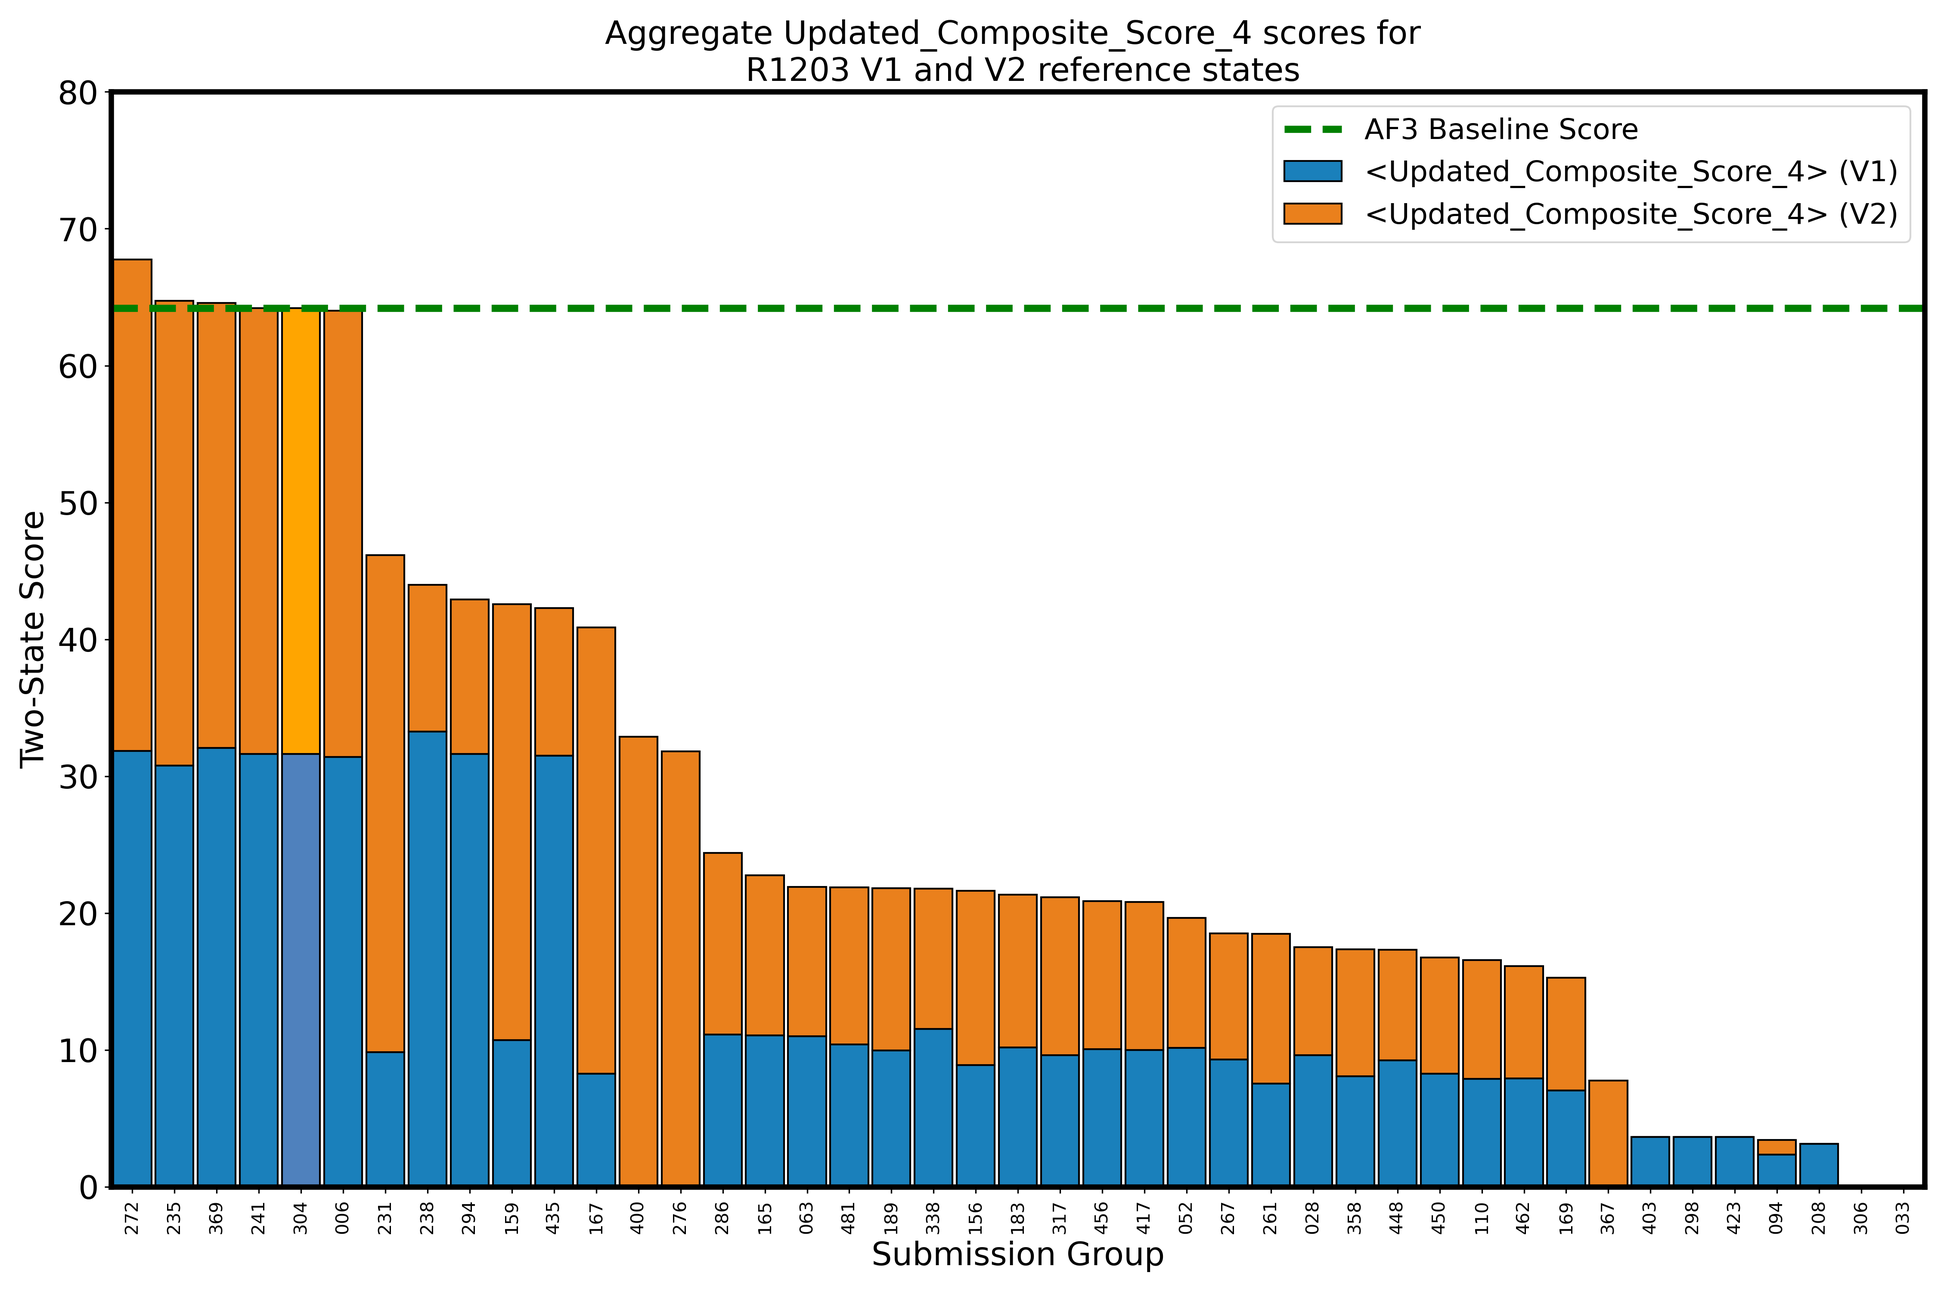
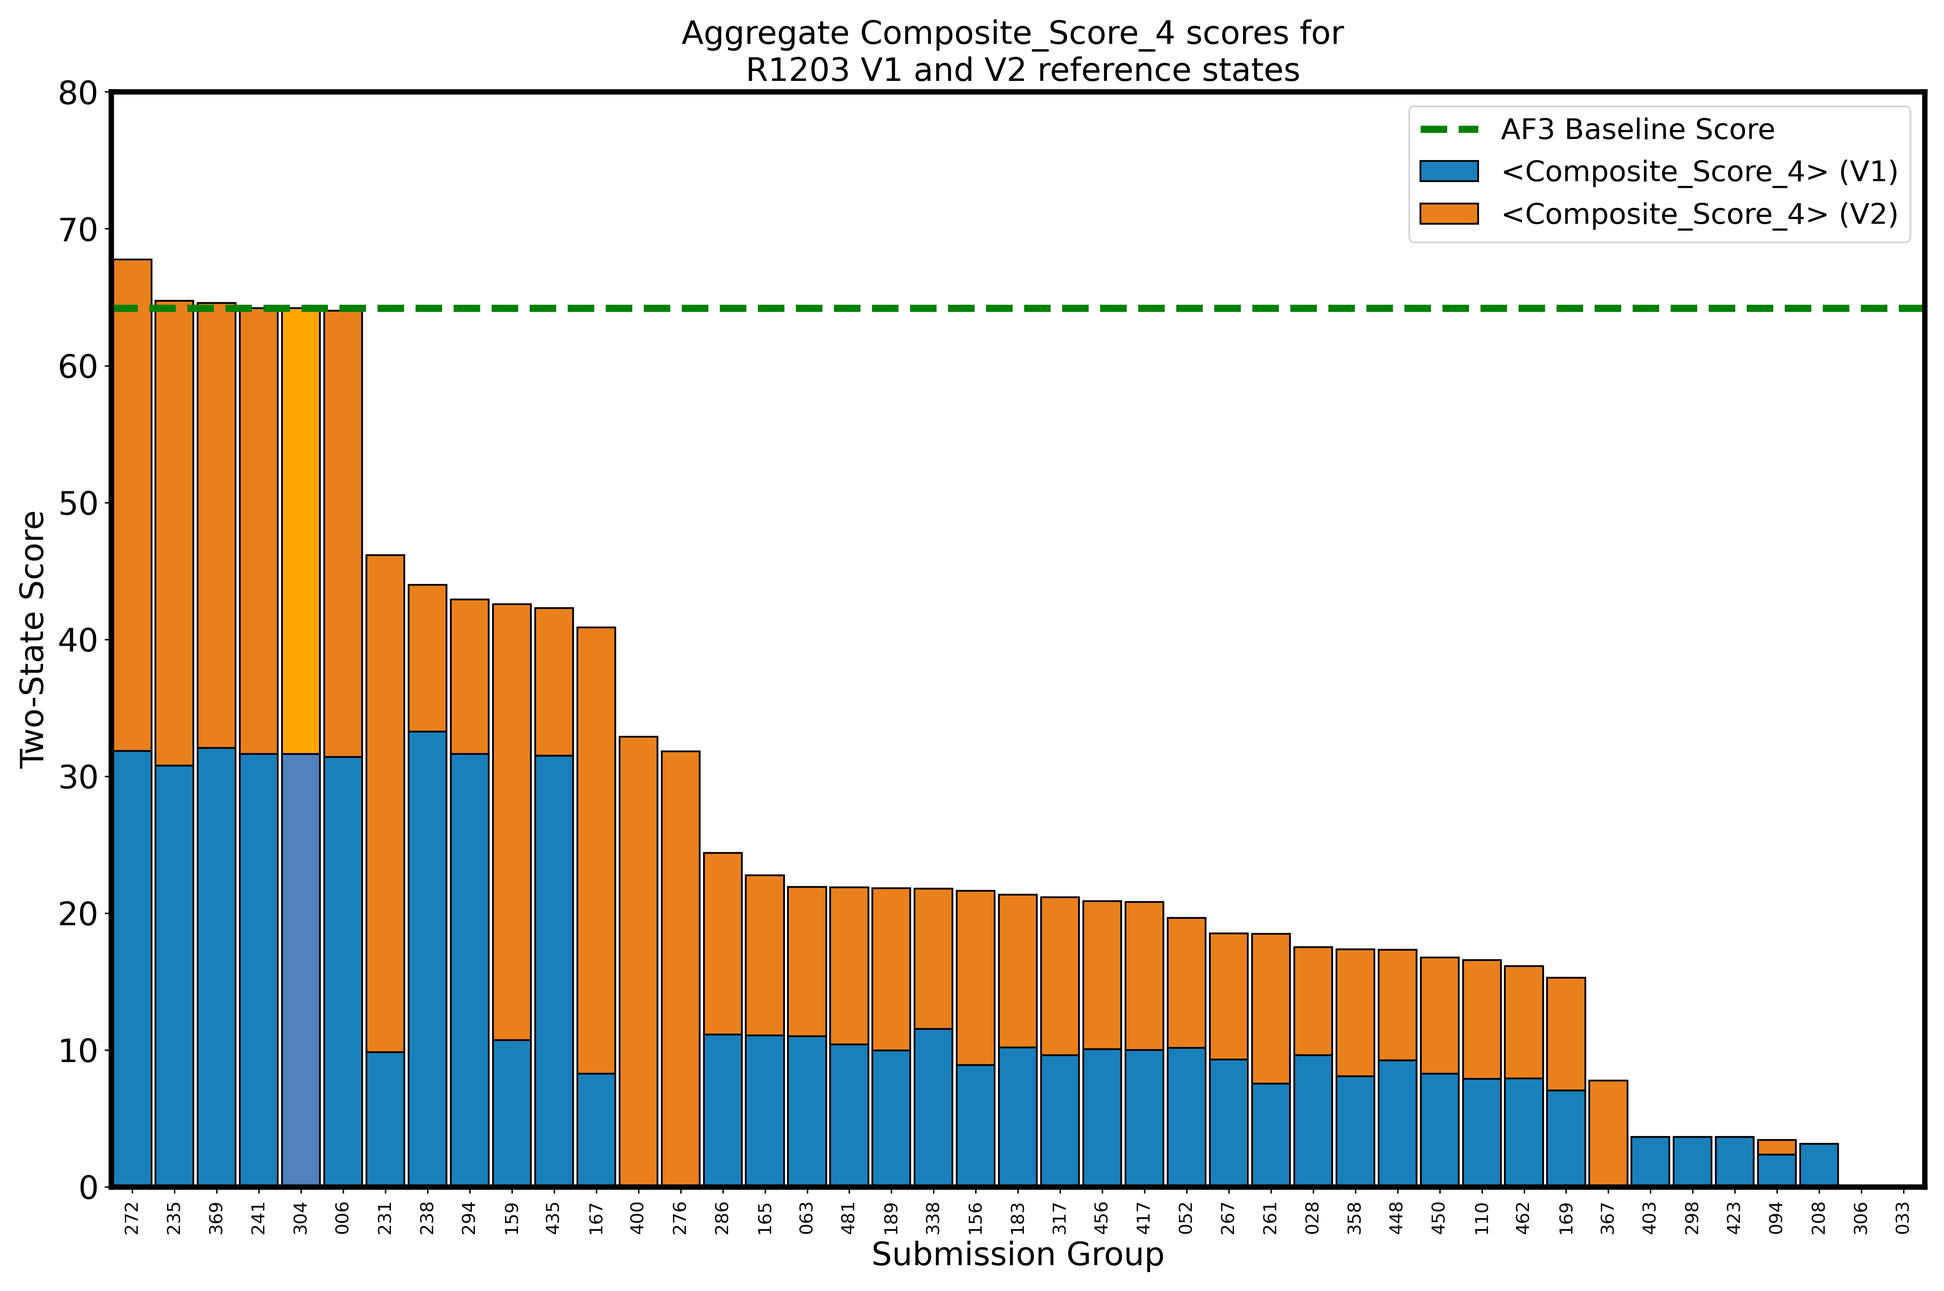
created simplified bar plots for inclusion in the manuscript.

Changed region(s): [[0.6558, 0.093, 0.9056, 0.186], [0.3123, 0.0, 0.7183, 0.031]]

diff --git a/process_two_state_score_simple_bar_plots.py b/process_two_state_score_simple_bar_plots.py
@@ -228,229 +228,6 @@ def get_best_fit(ID, v1_df, v2_df, score):
     results_df = pd.DataFrame(results)
     return results_df
 
-def create_scatter(
-    x,
-    y,
-    group_labels,
-    xlabel,
-    ylabel,
-    title,
-    legend_label='Submission Groups',
-    main_xlim=None,
-    main_ylim=None,
-    inset=False,
-    inset_position=[0.5, 0.05, 0.475, 0.475],
-    inset_xlim=None,
-    inset_ylim=None,
-    inset_xticks=None,
-    inset_yticks=None,
-    highlight_inset_rect=False,
-    rect_xy=None,
-    rect_width=None,
-    rect_height=None,
-    adjust_texts=True,
-    save_path=None,
-    dpi=300,
-    legend_position='upper right',
-    score = None,
-    xlim=None,           # New optional parameter for x-axis range
-    ylim=None,           # New optional parameter for y-axis range
-    xticks=None,         # New optional parameter for x-axis ticks
-    yticks=None,         # New optional parameter for y-axis ticks
-    text_fontsize=8,     # New optional parameter for text fontsize
-    AF3_baseline=False   # New optional parameter for AF3 baseline highlighting
-):
-    """
-    Create a scatterplot with optional inset.
-    Parameters:
-        x, y: Data for scatterplot
-        group_labels: Labels for each point
-        xlabel, ylabel, title: Axis and plot labels
-        legend_label: Label for legend
-        main_xlim, main_ylim: Tuple for main plot axis limits
-        inset: Whether to create an inset
-        inset_position: [left, bottom, width, height] for inset axes
-        inset_xlim, inset_ylim: Tuple for inset axis limits
-        inset_xticks, inset_yticks: Ticks for inset axes
-        highlight_inset_rect: Whether to draw a rectangle on main plot
-        rect_xy: (x, y) for rectangle lower left
-        rect_width, rect_height: Rectangle width and height
-        adjust_texts: Whether to adjust text to avoid overlap
-        save_path: If provided, save the figure to this path
-        dpi: Dots per inch for saving
-        legend_position: Position for the legend
-        xlim, ylim: Explicit x/y axis range for main plot (overrides main_xlim/main_ylim if provided)
-        xticks, yticks: Explicit x/y axis tick values for main plot
-        text_fontsize: Font size for group label texts (default 8)
-    Returns:
-        fig, ax_main, ax_inset (if inset=True)
-    """
-
-    fig, ax_main = plt.subplots(figsize=(8, 8))
-    max_val = max(max(x), max(y))
-    max_val_for_plotting = max_val
-    if xlim is not None and ylim is not None:
-        max_val_for_plotting = max(max_val, max(xlim), max(ylim))
-    max_val = max(max_val, max_val_for_plotting)
-
-    ax_main.plot([0, max_val], [0, max_val], 'r-', label='y=x')
-    scatter = ax_main.scatter(x, y, c='blue', label=legend_label)
-
-    # --- AF3 Baseline Highlighting ---
-    if AF3_baseline:
-        for i, (xv, yv, txt) in enumerate(zip(x, y, group_labels)):
-            group_num = str(int(''.join(filter(str.isdigit, str(txt))))).zfill(3)
-            if group_num == '304':
-                ax_main.axhline(yv, color='gray', linestyle='--', linewidth=2)
-                ax_main.axvline(xv, color='gray', linestyle='--', linewidth=2)
-                # Shade the area y > y_304 and x > x_304
-                x_min, x_max = ax_main.get_xlim()
-                y_min, y_max = ax_main.get_ylim()
-                ax_main.fill_betweenx([yv, y_max], xv, x_max, color='yellow', alpha=0.2, zorder=0)
-    # --- End AF3 Baseline Highlighting ---
-
-    # Set axis bounds with padding for main plot if not provided
-    if xlim is not None:
-        ax_main.set_xlim(*xlim)
-    elif main_xlim is None:
-        x_min, x_max = min(x), max(x)
-        padding = 0.05
-        x_range = x_max - x_min
-        main_xlim = (x_min - x_range * padding, x_max + x_range * padding)
-        ax_main.set_xlim(*main_xlim)
-    else:
-        ax_main.set_xlim(*main_xlim)
-
-    if ylim is not None:
-        ax_main.set_ylim(*ylim)
-    elif main_ylim is None:
-        y_min, y_max = min(y), max(y)
-        padding = 0.05
-        y_range = y_max - y_min
-        main_ylim = (y_min - y_range * padding, y_max + y_range * padding)
-        ax_main.set_ylim(*main_ylim)
-    else:
-        ax_main.set_ylim(*main_ylim)
-
-    if xticks is not None:
-        ax_main.set_xticks(xticks)
-    if yticks is not None:
-        ax_main.set_yticks(yticks)
-
-    ax_inset = None
-    if inset:
-        ax_inset = ax_main.inset_axes(inset_position)
-        ax_inset.plot([0, max_val], [0, max_val], 'r-')
-        ax_inset.scatter(x, y, c='blue')
-        if inset_xlim:
-            ax_inset.set_xlim(*inset_xlim)
-        if inset_ylim:
-            ax_inset.set_ylim(*inset_ylim)
-        if inset_xticks:
-            ax_inset.set_xticks(inset_xticks)
-        if inset_yticks:
-            ax_inset.set_yticks(inset_yticks)
-        ax_inset.tick_params(labelsize=8)
-        ax_inset.grid(True, linestyle='--', alpha=0.7)
-        # Add rectangle in main plot to show zoomed region
-        if highlight_inset_rect and rect_xy and rect_width and rect_height:
-            rect = plt.Rectangle(rect_xy, rect_width, rect_height, fill=False, color='red', linestyle='--')
-            ax_main.add_patch(rect)
-        # --- AF3 Baseline Highlighting ---
-        if AF3_baseline:
-            for i, (xv, yv, txt) in enumerate(zip(x, y, group_labels)):
-                group_num = str(int(''.join(filter(str.isdigit, str(txt))))).zfill(3)
-                if group_num == '304':
-                    ax_inset.axhline(yv, color='gray', linestyle='--', linewidth=2)
-                    ax_inset.axvline(xv, color='gray', linestyle='--', linewidth=2)
-                    # Shade the area y > y_304 and x > x_304
-                    x_min, x_max = ax_inset.get_xlim()
-                    y_min, y_max = ax_inset.get_ylim()
-                    ax_inset.fill_betweenx([yv, y_max], xv, x_max, color='yellow', alpha=0.2, zorder=0)
-        # --- End AF3 Baseline Highlighting ---
-
-    # Add labels and adjust text for main plot and inset
-    texts_main = []
-    texts_inset = []
-    
-    # Calculate combined scores (x + y) for each group
-    combined_scores = [xv + yv for xv, yv in zip(x, y)]
-    
-    # Create a list of tuples with (combined_score, index, group_label)
-    score_index_pairs = [(score, i, str(group_labels[i])) for i, score in enumerate(combined_scores)]
-    
-    # Sort by combined score in descending order and get top 5
-    score_index_pairs.sort(key=lambda x: x[0], reverse=True)
-    top_5_indices = [pair[1] for pair in score_index_pairs[:5]]
-    
-    # Find indices for TS462 and TS304
-    ts462_index = None
-    ts304_index = None
-    for i, (xv, yv, txt) in enumerate(zip(x, y, group_labels)):
-        txt = str(txt)
-        # Extract group number from group label (e.g., "TS462" -> "462")
-        group_number = ''.join(filter(str.isdigit, txt))
-        if group_number == '462':
-            ts462_index = i
-        if group_number == '304':
-            ts304_index = i
-    
-    # Create set of indices to label (top 5 + TS462 + TS304)
-    indices_to_label = set(top_5_indices)
-    # Add TS462 and TS304 if they exist and are not already in top 5
-    if ts462_index is not None and ts462_index not in indices_to_label:
-        indices_to_label.add(ts462_index)
-    if ts304_index is not None and ts304_index not in indices_to_label:
-        indices_to_label.add(ts304_index)
-    
-    # Add labels only for the selected groups
-    for i, (xv, yv, txt) in enumerate(zip(x, y, group_labels)):
-        if i in indices_to_label:
-            txt = str(txt)
-            if inset and inset_xlim and inset_ylim and (inset_xlim[0] <= xv <= inset_xlim[1] and inset_ylim[0] <= yv <= inset_ylim[1]):
-                texts_inset.append(ax_inset.text(xv, yv, txt.replace('TS', ''), fontsize=text_fontsize))
-            else:
-                texts_main.append(ax_main.text(xv, yv, txt.replace('TS', ''), fontsize=text_fontsize))
-    
-    if adjust_texts:
-        if texts_inset:
-            adjust_text(texts_inset, 
-                        ax=ax_inset, 
-                        arrowprops=dict(arrowstyle='->', color='red', lw=0.5),
-                        expand_points=(1.1, 1.1),
-                        force_points=(0.1, 0.1))
-        if texts_main:
-            adjust_text(texts_main, 
-                        ax=ax_main, 
-                        arrowprops=dict(arrowstyle='->', color='red', lw=0.5),
-                        expand_points=(2.0, 2.0),
-                        force_text=(0.5, 0.5),
-                        force_points=(0.5, 0.5),
-                        avoid_text=True,
-                        avoid_points=True,
-                        avoid_self=True)
-
-    ax_main.set_xlabel(xlabel, fontsize=20)
-    ax_main.set_ylabel(ylabel, fontsize=20)
-    ax_main.set_title(title, fontsize=20)
-    
-    # Automatic legend placement to find best location with maximum white space
-    legend = ax_main.legend(fontsize=16, bbox_to_anchor=(1.05, 1), loc='upper left')
-    
-    # Try to find the best position automatically
-    # This will place the legend in the location with the most white space
-    ax_main.legend(fontsize=16, loc='best')
-    
-    ax_main.tick_params(axis='both', labelsize=20)
-    plt.tight_layout()
-    if save_path:
-        fig.savefig(save_path, dpi=dpi, bbox_inches='tight')
-        plt.close(fig)
-    if inset:
-        return fig, ax_main, ax_inset
-    else:
-        return fig, ax_main
-
 def create_stacked_bar(combined_df, ID, score, horizontal=False, star=False, outfile_suffix = ""):
     import matplotlib.pyplot as plt
     num_groups = len(combined_df)
@@ -460,12 +237,12 @@ def create_stacked_bar(combined_df, ID, score, horizontal=False, star=False, out
         fig_size = (12, dynamic_size)
         bar_func, stack_param, line_func, line_param = plt.Axes.barh, 'left', plt.Axes.axvline, 'x'
         limit_set, label_prim, label_sec = plt.Axes.set_ylim, 'ylabel', 'xlabel'
-        legend_loc, tick_fs_prim, tick_fs_sec, rot_prim = 'lower right', 12, 18, 0
+        legend_loc, tick_fs_prim, tick_fs_sec, rot_prim = 'lower right', 18, 18, 0
     else:
         fig_size = (dynamic_size, 10)
         bar_func, stack_param, line_func, line_param = plt.Axes.bar, 'bottom', plt.Axes.axhline, 'y'
         limit_set, label_prim, label_sec = plt.Axes.set_xlim, 'xlabel', 'ylabel'
-        legend_loc, tick_fs_prim, tick_fs_sec, rot_prim = 'upper right', 10, 18, 90
+        legend_loc, tick_fs_prim, tick_fs_sec, rot_prim = 'upper right', 18, 18, 90
     fig, ax = plt.subplots(figsize=fig_size)
     group_labels_raw = combined_df['Group'].str.replace('TS', '')
     if horizontal:
@@ -483,25 +260,21 @@ def create_stacked_bar(combined_df, ID, score, horizontal=False, star=False, out
         group_labels = group_labels_raw
         check_labels = group_labels.values
         bar_size_param, bar_size = 'width', 0.9
-    v1_colors = ['#1A80BB'] * num_groups
-    v2_colors = ['#EA801C'] * num_groups
-    if '304' in check_labels:
-        idx_304 = list(check_labels).index('304')
-        if not star:
-            v1_colors[idx_304] = '#4F81BD'  # bluish
-            v2_colors[idx_304] = '#FFA500'  # orangish
+    v1_colors = ['tab:blue'] * num_groups
+    v2_colors = ['#FA7E0F'] * num_groups
+
     if num_groups > 100:
-        bar_kwargs_v1 = {bar_size_param: bar_size, 'label': f'<{score}> (V1)', 'color': v1_colors}
-        bar_kwargs_v2 = {bar_size_param: bar_size, 'label': f'<{score}> (V2)', 'color': v2_colors, stack_param: df_to_use[f'Best_v1_ref']}
+        bar_kwargs_v1 = {bar_size_param: bar_size, 'label': f'<{score.replace('Updated_','')}> (V1)', 'color': v1_colors}
+        bar_kwargs_v2 = {bar_size_param: bar_size, 'label': f'<{score.replace('Updated_','')}> (V2)', 'color': v2_colors, stack_param: df_to_use[f'Best_v1_ref']}
     else:
-        bar_kwargs_v1 = {bar_size_param: bar_size, 'label': f'<{score}> (V1)', 'edgecolor': 'black', 'linewidth': 1, 'color': v1_colors}
-        bar_kwargs_v2 = {bar_size_param: bar_size, 'label': f'<{score}> (V2)', 'edgecolor': 'black', 'linewidth': 1, 'color': v2_colors, stack_param: df_to_use[f'Best_v1_ref']}
+        bar_kwargs_v1 = {bar_size_param: bar_size, 'label': f'<{score.replace('Updated_','')}> (V1)','color': v1_colors}
+        bar_kwargs_v2 = {bar_size_param: bar_size, 'label': f'<{score.replace('Updated_','')}> (V2)', 'color': v2_colors, stack_param: df_to_use[f'Best_v1_ref']}
     bars_v1 = bar_func(ax, group_labels, df_to_use[f'Best_v1_ref'], **bar_kwargs_v1)
     bars_v2 = bar_func(ax, group_labels, df_to_use[f'Best_v2_ref'], **bar_kwargs_v2)
     if '304' in check_labels:
         idx_304 = list(check_labels).index('304')
         total_score = df_to_use[f'Best_v1_ref'].iloc[idx_304] + df_to_use[f'Best_v2_ref'].iloc[idx_304]
-        line_func(ax, **{line_param: total_score, 'color': 'green', 'linestyle': '--', 'linewidth': 4, 'label': 'AF3 Baseline Score'})
+        line_func(ax, **{line_param: total_score, 'color': 'grey', 'linestyle': '--', 'linewidth': 4, 'label': 'AF3 Baseline Score'})
         if star:
             # Add a gray star above (vertical) or to the right (horizontal) of the bar for group 304
             if horizontal:
@@ -513,7 +286,7 @@ def create_stacked_bar(combined_df, ID, score, horizontal=False, star=False, out
     limit_set(ax, -0.5, len(group_labels) - 0.5)
     getattr(ax, f'set_{label_prim}')('Submission Group', fontsize=18)
     getattr(ax, f'set_{label_sec}')('Two-State Score', fontsize=18)
-    ax.set_title(f'Aggregate {score} scores for \n {ID} V1 and V2 reference states', fontsize=18)
+    ax.set_title(f'Aggregate {score.replace('Updated_','')} scores for \n {ID} V1 and V2 reference states', fontsize=18)
     ax.legend(loc=legend_loc, fontsize=16)
     if horizontal:
         ax.set_yticks(range(len(group_labels)))
@@ -546,51 +319,22 @@ def assessment(ID, score):
 
     # Save the combined metric to a CSV file
     combined_df.to_csv(f'./OUTPUT/{ID}_{score}_two_state.csv', index=False)
-    
-    kwargs = {}
-    # Set text fontsize for specific IDs
-    if ID in ["M1239", "M1228"]:
-        kwargs['text_fontsize'] = 12
+  
 
-    # Default scatter plot parameters
-    kwargs.update({
-        'x': combined_df[f"Best_v1_ref"],
-        'y': combined_df[f"Best_v2_ref"],
-        'group_labels': combined_df['Group'],
-        'xlabel': f'{score} Score (V1)',
-        'ylabel': f'{score} Score (V2)',
-        'title': f'Scatter plot of {score} scores for \n {ID} V1 vs V2 reference states',
-        'save_path': f'./PLOTS/{ID}_{score}_scatter_plot_full_axis.png',
-        'score': score
-    })
-
-    if score == 'TMscore':
-        kwargs.update({
-            'xlim': (0.0, 1.0),
-            'ylim': (0.0, 1.0),
-            'xticks': [round(x, 2) for x in list(frange(0.0, 1.0+0.001, 0.1))],
-            'yticks': [round(y, 2) for y in list(frange(0.0, 1.0+0.001, 0.1))],
-        })
-    elif score == 'GDT_TS':
-        kwargs.update({
-            'xlim': (0.0, 100.0),
-            'ylim': (0.0, 100.0),
-            'xticks': [round(x, 2) for x in list(frange(0.0, 100.0+0.001, 10.0))],
-            'yticks': [round(y, 2) for y in list(frange(0.0, 100.0+0.001, 10.0))],
-        })
-   
-    # Call create_scatter once with all kwargs
-    result = create_scatter(**kwargs)
-    return
+    print("Creating stacked bar plots...")
+    create_stacked_bar(combined_df, ID, score, horizontal=False, star=False, outfile_suffix = "_vertical_simple")
+    create_stacked_bar(combined_df, ID, score, horizontal=True, star=False, outfile_suffix = "_horizontal_simple")
+    print(f"Done creating stacked bar plots for {ID} {score}")
 
 
 
-TARGET_SCORE_DICT = {"M1228": ["GDT_TS", "TMscore"], 
-                     "M1239": ["GDT_TS", "TMscore"], 
-                     "R1203": ["GDT_TS", "TMscore"], 
-                     "T1228": ["GDT_TS"], 
-                     "T1239": ["GDT_TS"]}
-
+TARGET_SCORE_DICT = {"M1228": ["BestDockQ", "GDT_TS", "GlobDockQ", "GlobalLDDT", "TMscore"], 
+                     "M1239": ["BestDockQ", "GDT_TS", "GlobDockQ", "GlobalLDDT", "TMscore"], 
+                     "R1203": ["GDT_TS", "GlobalLDDT", "Composite_Score_4", "TMscore"], 
+                     "T1214": ["GDT_TS", "GlobalLDDT"],
+                     "T1228": ["GDT_TS", "GlobalLDDT"], 
+                     "T1239": ["GDT_TS", "GlobalLDDT"], 
+                     "T1249": ["AvgDockQ", "GlobalLDDT"]}
 
 for ID, scores in TARGET_SCORE_DICT.items():
     for score in scores:

diff --git a/process_two_state_score.py b/process_two_state_score.py
@@ -456,11 +456,11 @@ def create_stacked_bar(combined_df, ID, score, horizontal=False, star=False, out
             v1_colors[idx_304] = '#4F81BD'  # bluish
             v2_colors[idx_304] = '#FFA500'  # orangish
     if num_groups > 100:
-        bar_kwargs_v1 = {bar_size_param: bar_size, 'label': f'<{score}> (V1)', 'color': v1_colors}
-        bar_kwargs_v2 = {bar_size_param: bar_size, 'label': f'<{score}> (V2)', 'color': v2_colors, stack_param: df_to_use[f'Best_v1_ref']}
+        bar_kwargs_v1 = {bar_size_param: bar_size, 'label': f'<{score.replace('Updated_','')}> (V1)', 'color': v1_colors}
+        bar_kwargs_v2 = {bar_size_param: bar_size, 'label': f'<{score.replace('Updated_','')}> (V2)', 'color': v2_colors, stack_param: df_to_use[f'Best_v1_ref']}
     else:
-        bar_kwargs_v1 = {bar_size_param: bar_size, 'label': f'<{score}> (V1)', 'edgecolor': 'black', 'linewidth': 1, 'color': v1_colors}
-        bar_kwargs_v2 = {bar_size_param: bar_size, 'label': f'<{score}> (V2)', 'edgecolor': 'black', 'linewidth': 1, 'color': v2_colors, stack_param: df_to_use[f'Best_v1_ref']}
+        bar_kwargs_v1 = {bar_size_param: bar_size, 'label': f'<{score.replace('Updated_','')}> (V1)', 'edgecolor': 'black', 'linewidth': 1, 'color': v1_colors}
+        bar_kwargs_v2 = {bar_size_param: bar_size, 'label': f'<{score.replace('Updated_','')}> (V2)', 'edgecolor': 'black', 'linewidth': 1, 'color': v2_colors, stack_param: df_to_use[f'Best_v1_ref']}
     bars_v1 = bar_func(ax, group_labels, df_to_use[f'Best_v1_ref'], **bar_kwargs_v1)
     bars_v2 = bar_func(ax, group_labels, df_to_use[f'Best_v2_ref'], **bar_kwargs_v2)
     if '304' in check_labels:
@@ -478,7 +478,7 @@ def create_stacked_bar(combined_df, ID, score, horizontal=False, star=False, out
     limit_set(ax, -0.5, len(group_labels) - 0.5)
     getattr(ax, f'set_{label_prim}')('Submission Group', fontsize=18)
     getattr(ax, f'set_{label_sec}')('Two-State Score', fontsize=18)
-    ax.set_title(f'Aggregate {score} scores for \n {ID} V1 and V2 reference states', fontsize=18)
+    ax.set_title(f'Aggregate {score.replace('Updated_','')} scores for \n {ID} V1 and V2 reference states', fontsize=18)
     ax.legend(loc=legend_loc, fontsize=16)
     if horizontal:
         ax.set_yticks(range(len(group_labels)))
